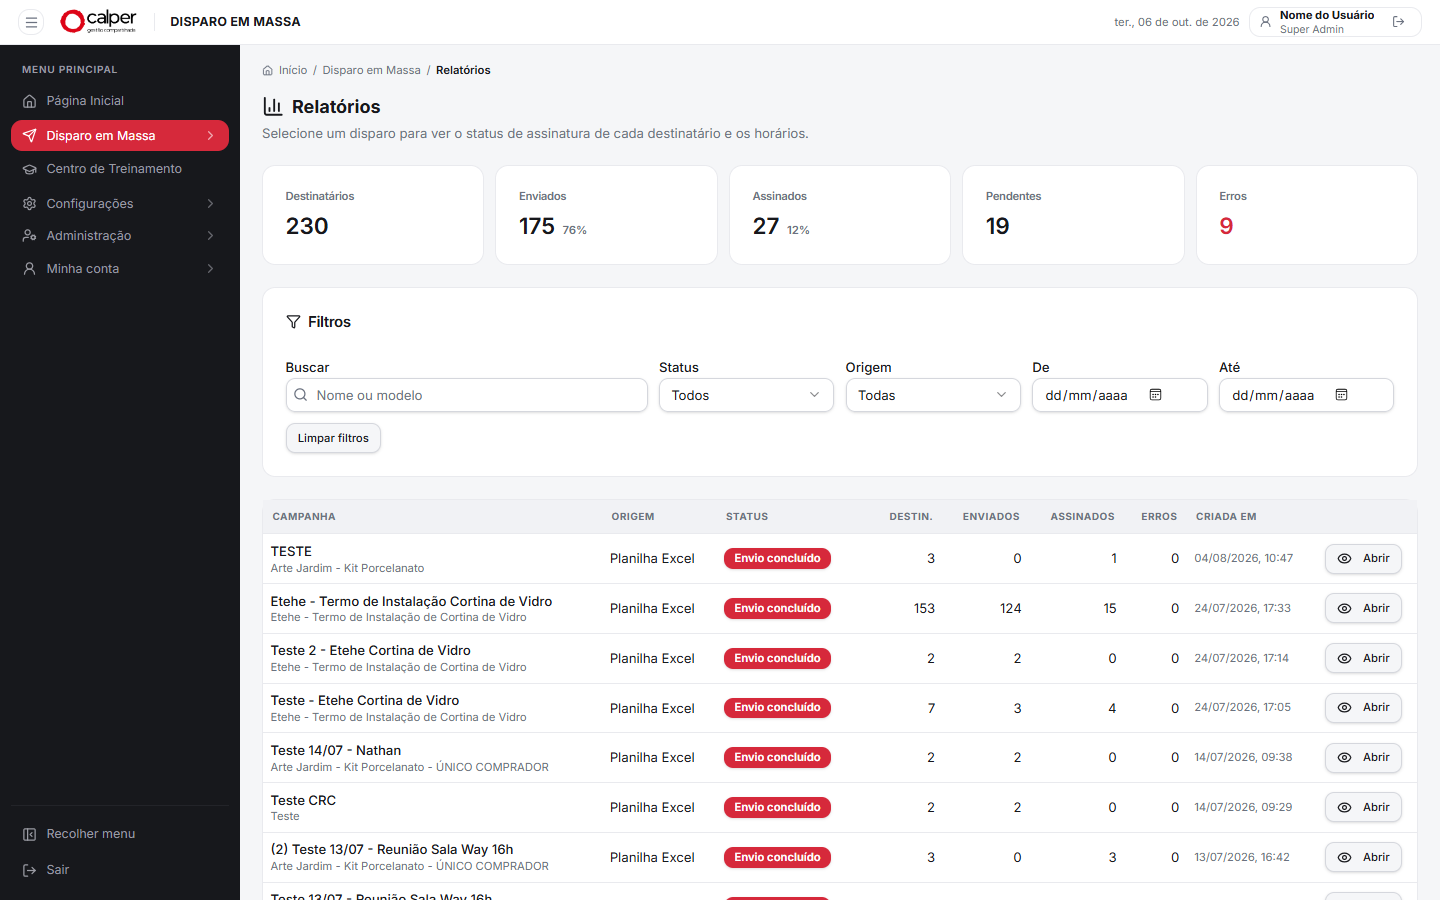
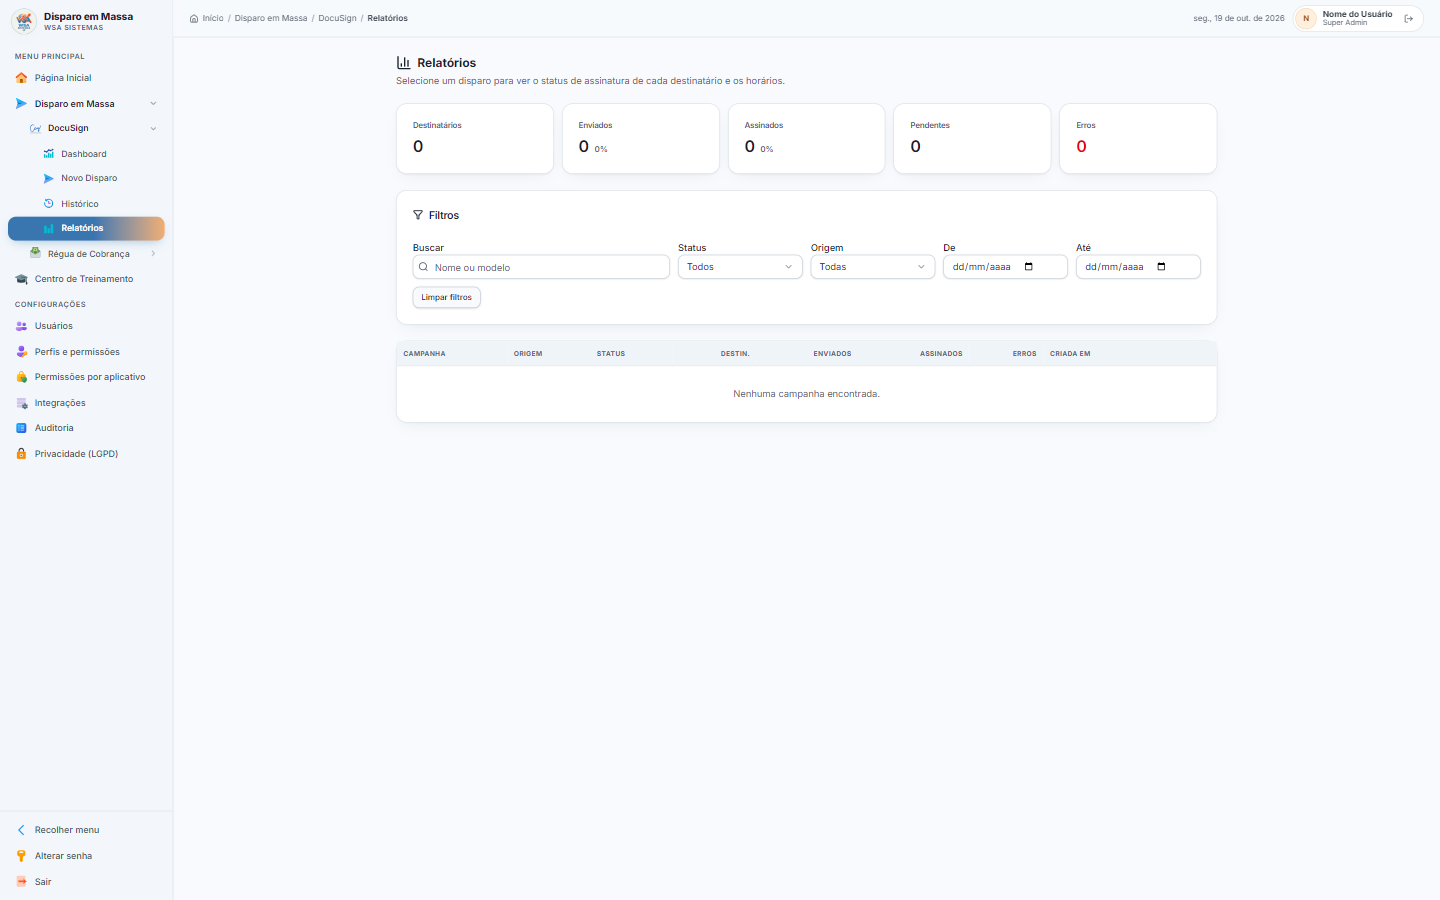
Guia: sem marca Calper — título e textos WSA Sistemas, prints refeitos no sistema atual com dados fictícios

diff --git a/src/lib/treinamento/disparo-em-massa.ts b/src/lib/treinamento/disparo-em-massa.ts
@@ -5,7 +5,7 @@ import type { Guia } from "./tipos";
 
 export const guiaDisparoEmMassa: Guia = {
   slug: "disparo-em-massa",
-  titulo: "Como usar o Disparo em Massa – Calper",
+  titulo: "Como usar o Disparo em Massa – WSA Sistemas",
   subtitulo:
     "Do primeiro acesso ao acompanhamento das assinaturas: escolha os compradores, o modelo do documento e quem assina, confira e dispare.",
   publico: "Para analistas, equipe administrativa e administradores do portal",
@@ -24,15 +24,15 @@ export const guiaDisparoEmMassa: Guia = {
         "Clique em “Salvar e entrar”. A nova senha precisa ter de 12 a 128 caracteres e misturar pelo menos três tipos entre letra minúscula, letra maiúscula, número e símbolo.",
       ],
       prints: [
-        { arquivo: "01-login.png", legenda: "Tela “Acessar o sistema”: e-mail, senha e botão Entrar." },
+        { arquivo: "01-login.png", legenda: "Tela “Acessar o sistema”: e-mail, senha, link “Esqueceu a senha?” e botão Entrar." },
         { arquivo: "02-trocar-senha.png", legenda: "Tela “Defina uma nova senha”, exibida no primeiro acesso." },
       ],
       alertas: [
         {
-          tipo: "critico",
-          titulo: "Não existe “esqueci minha senha”",
+          tipo: "dica",
+          titulo: "Esqueceu a senha?",
           texto:
-            "Se perder a senha, peça a um Super Admin para gerar uma nova. Você será obrigado a trocá-la no próximo acesso.",
+            "Na tela de login, clique em “Esqueceu a senha?” e informe o seu e-mail. Chega um link que vale por 30 minutos e uma única vez para criar a nova senha. Se o e-mail não chegar (confira o spam), peça a um Super Admin para gerar uma nova senha.",
         },
         {
           tipo: "atencao",
@@ -44,7 +44,7 @@ export const guiaDisparoEmMassa: Guia = {
           tipo: "dica",
           titulo: "Escolha uma senha forte",
           texto:
-            "Não use “senha”, “calper”, sequências como 123456 ou qwerty, nem um único caractere repetido. Uma frase longa com números e símbolos funciona bem.",
+            "Não use “senha”, o nome da empresa, sequências como 123456 ou qwerty, nem um único caractere repetido. Uma frase longa com números e símbolos funciona bem.",
         },
       ],
     },
@@ -404,5 +404,5 @@ export const guiaDisparoEmMassa: Guia = {
     },
   ],
   suporte:
-    "Se o problema continuar, acione a TI da Calper informando o horário, a tela e o texto exato da mensagem de erro. Nunca envie senhas, nem prints ou arquivos com dados de compradores, por e-mail ou chat.",
+    "Se o problema continuar, acione o suporte da WSA Sistemas informando o horário, a tela e o texto exato da mensagem de erro. Nunca envie senhas, nem prints ou arquivos com dados de compradores, por e-mail ou chat.",
 };

diff --git a/src/lib/senha.ts b/src/lib/senha.ts
@@ -14,7 +14,7 @@ export const SENHA_MAX = 128;
 
 export const SENHA_REGRAS_TEXTO = `Pelo menos ${SENHA_MIN} caracteres, com três destes quatro tipos: letra minúscula, letra maiúscula, número e símbolo.`;
 
-const SEQUENCIAS_PROIBIDAS = ["123456", "abcdef", "qwerty", "senha", "password", "calper"];
+const SEQUENCIAS_PROIBIDAS = ["123456", "abcdef", "qwerty", "senha", "password", "calper", "wsasistemas", "imobsystem"];
 
 /** Devolve a mensagem de erro, ou null se a senha atende à política. */
 export function validarPoliticaSenha(senha: unknown): string | null {

diff --git a/docs/treinamento-disparo-em-massa.md b/docs/treinamento-disparo-em-massa.md
@@ -23,7 +23,7 @@ existe, a tela mostra um espaço reservado e o HTML baixado faz o mesmo.
 
 1. **Texto**: edite `src/lib/treinamento/disparo-em-massa.ts`. Os rótulos de botões e limites vêm do código das
    telas; se uma tela mudar, ajuste o passo correspondente.
-2. **Prints**: substitua o arquivo em `public/guias/disparo-em-massa/` mantendo o nome. Use 1440×900, sem
+2. **Prints**: capture no portal atual (sem marca de outra empresa) e substitua o arquivo em `public/guias/disparo-em-massa/` mantendo o nome. Use 1440×900, sem
    dados pessoais reais (veja as regras abaixo).
 3. **Novo guia**: crie `src/lib/treinamento/<nome>.ts` (tipo `Guia`), uma rota `treinamento.<nome>.tsx` e um
    cartão em `treinamento.index.tsx`.
@@ -38,19 +38,19 @@ existe, a tela mostra um espaço reservado e o HTML baixado faz o mesmo.
 
 ## Prompt (versão para o Disparo em Massa)
 
-> Base: prompt do guia do Portal de Pesagem. Mudanças: contexto, estrutura, cor (o portal usa `#D6293B`, com
-> `#A91D2C` no hover/escuro e grafite `#17181C` — os mesmos tokens de `src/styles.css`), e prints reais do próprio
+> Base: prompt do guia do Portal de Pesagem. Mudanças: contexto, estrutura, cor (o portal usa o azul ameno da logo WSA
+> com abóbora clarinho de destaque — os mesmos tokens de `src/styles.css`), e prints reais do próprio
 > portal.
 
 ```text
-Crie um guia passo a passo chamado "Como usar o Disparo em Massa – Calper",
+Crie um guia passo a passo chamado "Como usar o Disparo em Massa – WSA Sistemas",
 destinado aos analistas, à equipe administrativa e aos administradores do portal.
 Linguagem simples, direta, em português, para quem não é da área de TI. Não use
 termos técnicos como "envelope", "API", "JWT" ou "polling": para o usuário, o
 sistema envia documentos para assinatura em massa.
 
 CONTEXTO DO SISTEMA
-- Portal web interno da Calper (login com e-mail corporativo e senha). Envia
+- Portal web da WSA Sistemas (login com e-mail corporativo e senha). Envia
   documentos para assinatura (DocuSign) a vários compradores de empreendimentos de
   uma só vez, por WhatsApp e/ou e-mail, e acompanha cada assinatura.
 - Primeiro acesso: o administrador entrega uma senha inicial; o portal obriga a
@@ -105,7 +105,7 @@ FORMATO
   origem antes de continuar; não compartilhar CSV/prints com dados de compradores).
 - Use um exemplo prático com dados fictícios (planilha de 4 compradores: um com
   telefone incompleto, um sem bloco) para mostrar o que cada etapa aprova ou bloqueia.
-- Identidade visual Calper: vermelho #D6293B como cor principal, neutros em grafite.
+- Identidade visual WSA Sistemas: azul ameno da logo como cor principal, abóbora clarinho de destaque, neutros frios.
 - Ao final, gere também uma versão HTML autocontida (imagens em base64) para salvar
   nos favoritos ou numa pasta de rede.
 
